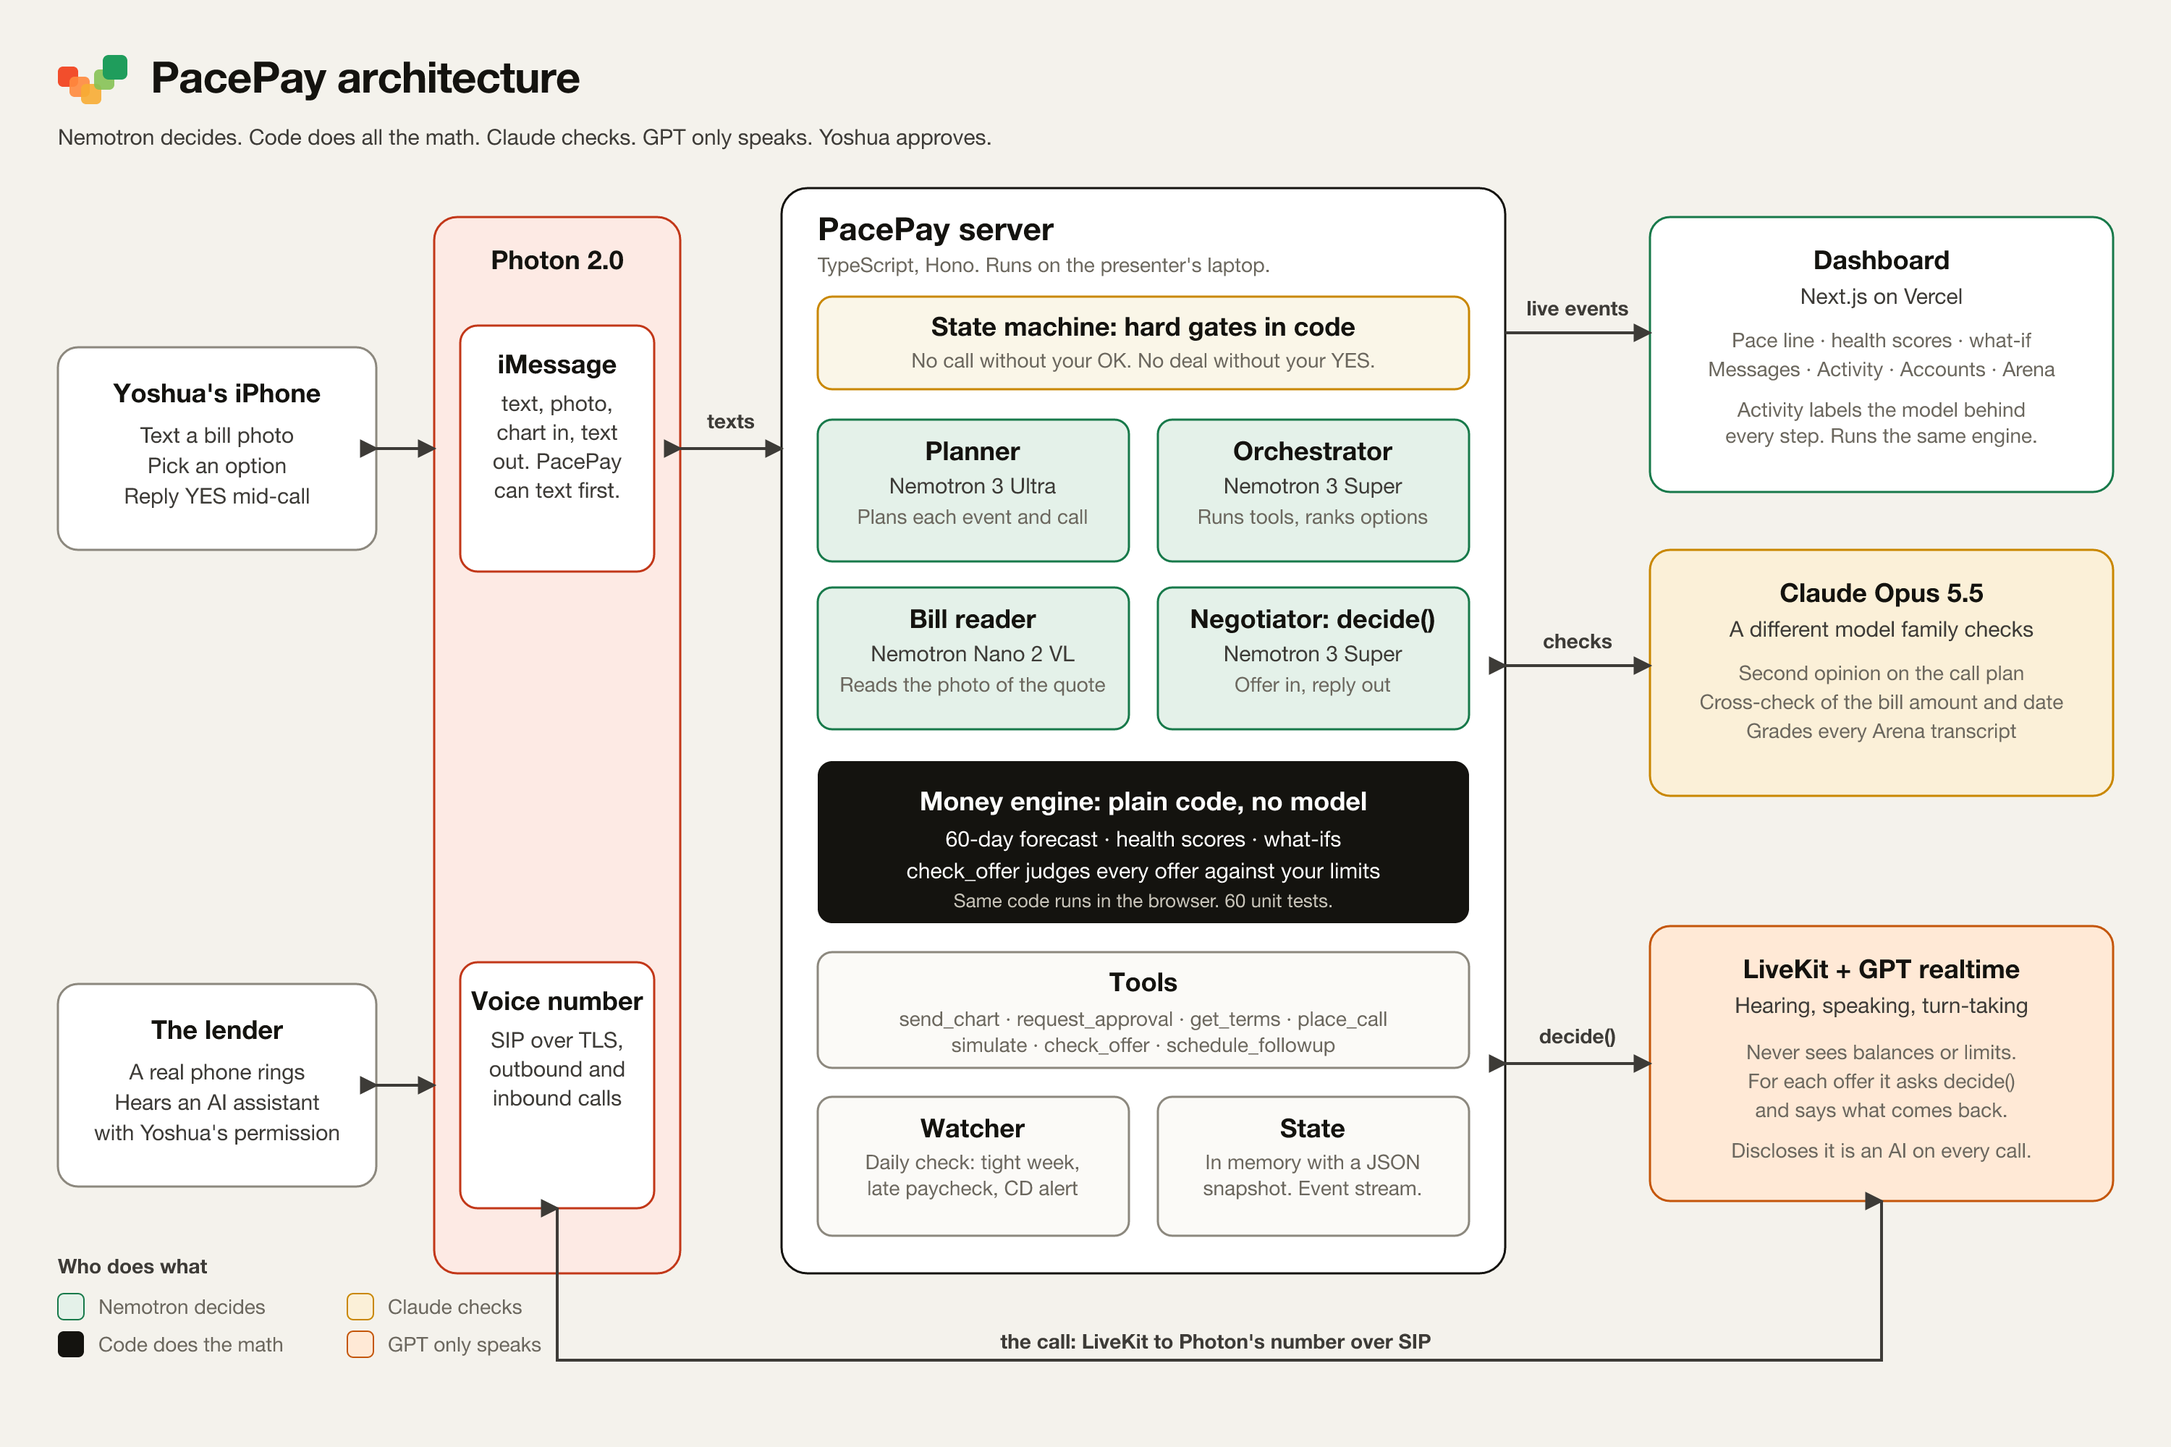
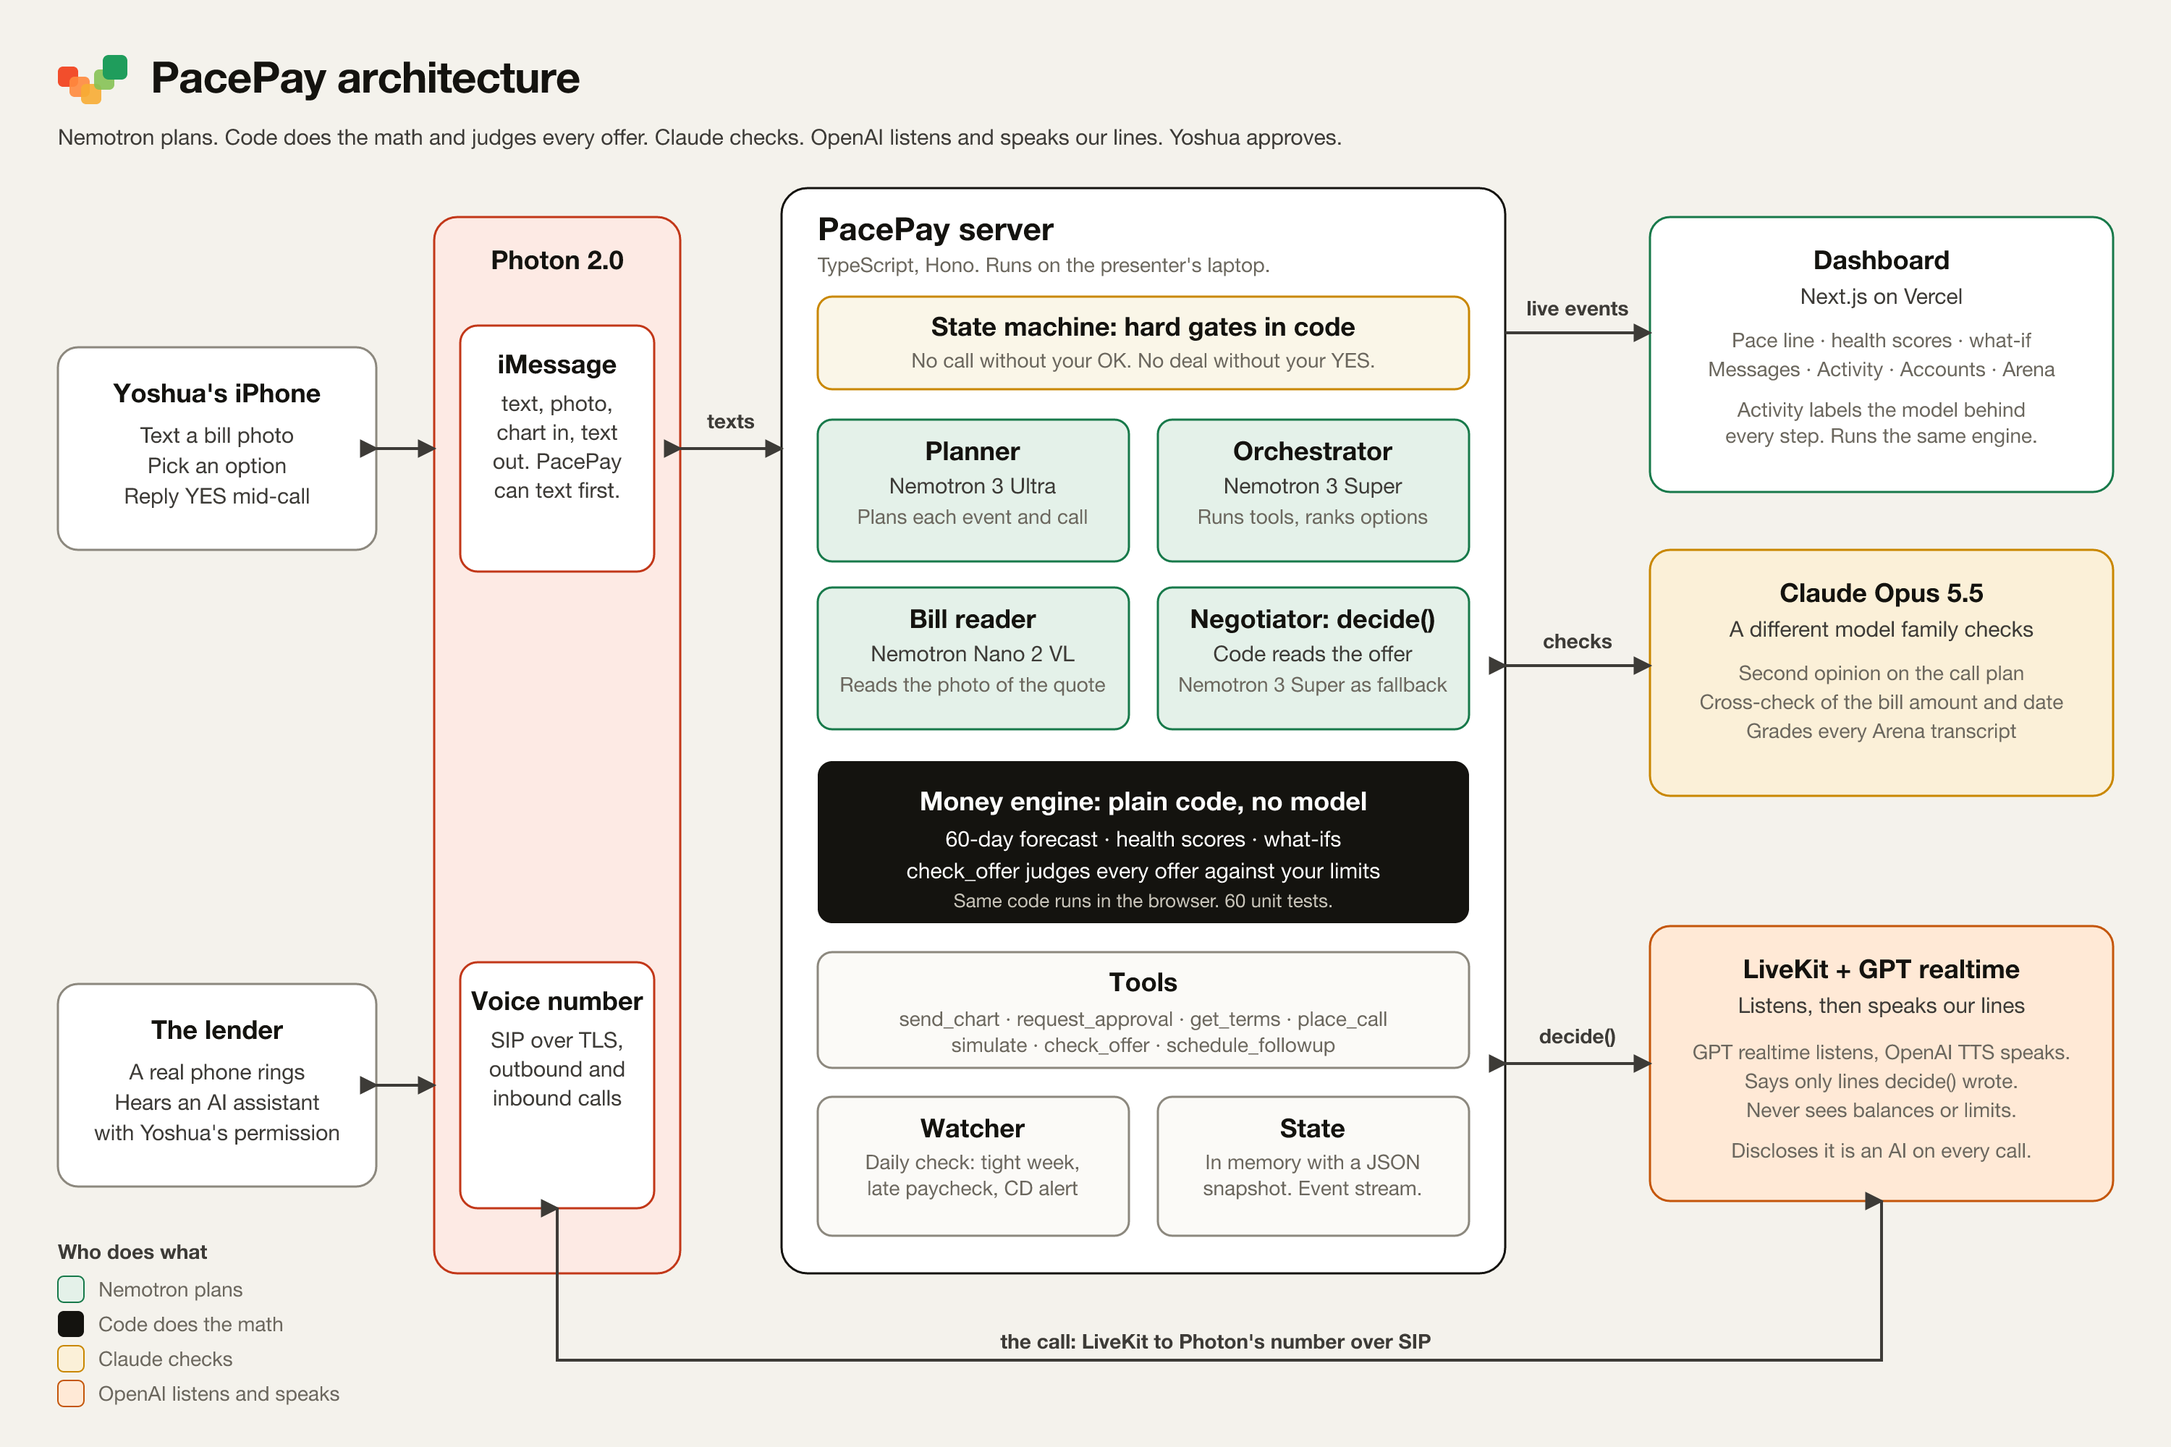
docs: Devpost text and architecture diagram match the code
Call decisions are code first (Nemotron Super as capped fallback); GPT realtime only listens and
OpenAI TTS speaks lines our code wrote. Adds the $35 pushback, voided approvals, final Arena numbers,
bill-reader timing and the stress-test line; drops the unbacked Nano claim and the placeholders.

diff --git a/docs/devpost.md b/docs/devpost.md
@@ -2,8 +2,6 @@
 
 **See what you can afford. Get more time if you need it.** A money assistant you save as a contact. It texts you before money gets tight, and with your OK, calls whoever you owe to fix it.
 
-> The only placeholder left is `[ARENA]`. Everything else is checked against the code and v2.md. See "Open placeholders" at the bottom.
-
 ## Inspiration
 
 A checking balance tells you what you have today. It takes more work to figure out what you'll have left after rent, automatic payments and whatever else is due before payday. And if the timing doesn't work, you still have to work out what to move and make the call.
@@ -26,7 +24,7 @@ Yoshua is our demo household. He has eight accounts: checking, savings, a CD, a 
 2. PacePay reads the bill, replies right away, and sends a chart of the week: checking hits **−$300 on Tuesday** if he pays today, because the mortgage and the car payment land before Thursday's paycheck.
 3. It texts three options, with a pick and a reason. Yoshua replies "1": ask the lender to move the car payment to Friday.
 4. Yoshua OKs the limits. PacePay gets a second opinion on the plan from a different model family, then calls the lender.
-5. On the call it says it's an AI assistant calling with Yoshua's permission, and that the call is transcribed. The lender offers Wednesday. PacePay declines without giving a reason (Wednesday is still before payday) and asks for Friday. They settle on **Friday for $20**.
+5. On the call it says it's an AI assistant calling with Yoshua's permission, and that the call is transcribed. The lender offers Wednesday. PacePay declines without giving a reason (Wednesday is still before payday) and asks for Friday. The lender offers Friday with a $35 fee. Checking would be fine, but $35 is over Yoshua's $25 limit, so PacePay pushes back without revealing the limit. They settle on **Friday for $20**.
 6. Mid-call, Yoshua's phone buzzes: "They'll move it to Fri, Nov 13 for $20. Approve?" He replies YES and PacePay confirms on the call.
 7. A done text lands in the thread. Checking stays at $100 or above and the forecast turns green.
 8. Unprompted, PacePay points out that Friday only works if Thursday's paycheck lands (if it's late, checking hits −$320 on Friday) and offers to watch for it. When Yoshua says the paycheck really is late, it recalculates and shows the options again, call first.
@@ -43,19 +41,21 @@ The dashboard, coach and negotiator share one TypeScript money engine. It calcul
 | Money engine | None. Plain code. | Daily balances, health scores, what-ifs, `check_offer`. Deterministic and unit-tested. |
 | Planner | Nemotron 3 Ultra | Writes the step plan for each event, plans calls, writes the CD advice |
 | Orchestrator | Nemotron 3 Super | Carries out the plan with tools and ranks the options |
-| Call decisions | Nemotron 3 Super | Turns every lender response into dates and fees, then decides the reply through a `decide` tool |
+| Call decisions | Code first, Nemotron 3 Super as a fallback | Code reads most lender lines (yes, no, which day, what fee) in milliseconds and picks the reply from `check_offer`. A line code can't read goes to Nemotron Super, capped at 2.5 seconds with a code fallback. Code always sets the day and the fee. |
 | Bill reader | Nemotron Nano 2 VL | Reads bill photos. Claude cross-checks the amount and due date. |
 | Second opinion | Claude Opus 5.5 | A different model family checks the call plan against Yoshua's rules before PacePay dials |
 | Arena grader | Claude Opus 5.5 | Grades every simulated negotiation transcript |
 | Simulated lenders | Nemotron 3 Ultra | Plays 50 lender personalities |
-| Call voice | OpenAI GPT realtime (`gpt-realtime-2.1`) via LiveKit, on a Photon number | Hearing, speaking, turn-taking |
-| Messaging | Photon 2.0 | iMessage texts, options, approvals, chart images, bill photos |
+| Call voice | OpenAI GPT realtime (`gpt-realtime-2.1`) listens (turn detection, transcription). OpenAI TTS (`gpt-4o-mini-tts`, voice marin) speaks lines our negotiator code writes. Via LiveKit, on a Photon number | Hearing and speaking, with code writing every word |
+| Messaging | Photon 2.0 (REST API, shared iMessage line, brand contact card) | iMessage texts, options, approvals, chart images, bill photos |
 | Dashboard | Next.js, Radix UI, visx | Live updates over server-sent events. Activity tab shows which model or tool did each step. |
 | Charts in texts | Rendered from engine data | Never AI-generated, because numbers in a picture have to be exact |
 
-Nemotron makes every decision. Claude checks and grades. GPT is only the voice. Code does the math.
+Nemotron plans and runs the tools. Claude checks and grades. On calls, GPT only listens and a text-to-speech voice reads lines our negotiator code wrote. Code does the math and judges every offer.
 
-**On lender calls the voice model never sees balances or limits.** It knows Yoshua's name, the loan reference and the line Nemotron hands it. For every offer it calls Nemotron's `decide` tool and says what comes back.
+**On lender calls the voice never sees balances or limits.** Every line PacePay says is written by our negotiator code (Nemotron Super only as a capped fallback for an unusual lender line) and spoken by OpenAI TTS, a whole line at a time. The voice can't improvise or leak, because it only says lines code handed it.
+
+**PacePay never agrees to anything but exactly what Yoshua approved.** If the lender changes the terms afterward, the approval is void: PacePay restates the approved terms, asks Yoshua again if the change is within his limits, and otherwise texts an honest no-deal. The Done text goes out only after the call ends with an undisputed deal, and a hang-up gets an honest text.
 
 **Code enforces the hard gates:** no call without Yoshua's pick and his OK on the limits, no deal without his yes, and every offer goes through `check_offer`. A payment on payday counts as risky by rule, because the deposit might land after the payment.
 
@@ -77,10 +77,10 @@ Nemotron makes every decision. Claude checks and grades. GPT is only the voice. 
 
 | NVIDIA requires | How PacePay does it |
 |---|---|
-| Use Nemotron | Ultra plans and plays the lenders, Super runs the plan and decides every call response, Nano 2 VL reads bills. Every Activity step is labeled with its model. |
+| Use Nemotron | Ultra plans and plays the lenders, Super runs the plan, answers questions and reads any lender line code can't, Nano 2 VL reads bills. Every Activity step is labeled with its model. |
 | Beyond a chatbot | It acts on events, not prompts: a bill photo with no question, a daily check that catches the maturing CD, a watch on a late paycheck. It places real phone calls. |
 | Multi-step workflows | For the repair: shortfall → options → pick → loan terms → call plan → limits OK → second opinion → call → judge each offer → mid-call approval → confirm → update forecast → follow-up |
-| Tool integration | Photon, LiveKit and GPT realtime, the forecast engine, a TrueFoundry gateway, Claude, a scheduler |
+| Tool integration | Photon, LiveKit, GPT realtime and OpenAI TTS, the forecast engine, a TrueFoundry gateway, Claude, a scheduler |
 | Real-world applicability | Overdrafts and late fees are common, and lenders do move due dates |
 
 Patterns covered: multi-agent (planner, orchestrator, negotiator, bill reader, lender simulator, reviewer), agentic RAG (the planner decides whether it needs a loan's fine print), ReAct (the negotiator calls `check_offer` and picks its reply from the result), multimodal (bill photos), and simulation and eval (the Arena).
@@ -90,7 +90,7 @@ Patterns covered: multi-agent (planner, orchestrator, negotiator, bill reader, l
 | Photon rewards | How PacePay does it |
 |---|---|
 | Live on a Photon channel | An iMessage line for texts and a Photon number for calls |
-| Best Voice Agent | PacePay places real calls to the lender over LiveKit through the Photon number. Inbound calls are PIN-gated: numbers are read out only after the caller's PIN. |
+| Best Voice Agent | PacePay places real calls to the lender over LiveKit through the Photon number. Inbound calls are PIN-gated and must come from Yoshua's number: numbers are read out only after the caller's PIN, and answers to the common questions (what the lender said, lowest balance, can I afford a bill, next paycheck, what if it's late, how am I doing) are built from the money engine in code. |
 | Human-in-the-loop | Yoshua picks the option, OKs the limits before the call, and approves the deal mid-call by text |
 | Context across time and channels | The call summary lands in the thread, and PacePay keeps rules, past decisions and the late-paycheck watch in context |
 | A delightful default | Quiet unless the forecast crosses a floor, one-word replies, a chart instead of a wall of text |
@@ -102,17 +102,17 @@ We ran simulated lenders (cooperative, fee-pushing, stubborn on dates, vague, fl
 
 | Result | Value |
 |---|---|
-| Runs | [ARENA] |
-| Deals reached | [ARENA] |
-| Limit violations | [ARENA] |
-| Balance or limit disclosures | [ARENA] |
-| Offers read back | [ARENA] |
+| Runs | 50 |
+| Deals reached | 70% (35 of 50) |
+| Limit violations | 0 |
+| Balance or limit disclosures | 0 |
+| Offers read back | 98% |
 
-Flat refusals and identity checks end without a deal by design. Every transcript is published in `docs/arena-transcripts.md` and clickable in the dashboard's Arena tab.
+Flat refusals and identity checks end without a deal by design. Limits of this test: it's text, not voice; the simulated lenders are also Nemotron; and the grader is an AI. Every transcript is published in `docs/arena-transcripts.md` and clickable in the dashboard's Arena tab.
 
 ## Bill reader accuracy
 
-We generated 30 test bill photos with known amounts and due dates (phone photos at an angle, crumpled, low light, thermal receipts) and measured the reader against the answers. We drew the same 30 bills two ways, with code and with an AI image model. **Amounts were right on 60 of 60 photos, and due dates on 59 of 60.** The one miss was a "due at pickup" receipt with no printed date, which the reader took as due today. Claude's cross-check agreed on every amount, and PacePay asked Yoshua to confirm only 1 time in 60. Results are in `docs/eval/`.
+We generated 30 test bill photos with known amounts and due dates (phone photos at an angle, crumpled, low light, thermal receipts) and measured the reader against the answers. We drew the same 30 bills two ways, with code and with an AI image model. **Amounts were right on 60 of 60 photos, and due dates on 59 of 60.** The one miss was a "due at pickup" receipt with no printed date, which the reader took as due today. Claude's cross-check agreed on every amount, and PacePay asked Yoshua to confirm only 1 time in 60. Reading a photo takes about 11 to 12 seconds including the cross-check. Results are in `docs/eval/`.
 
 ## Challenges
 
@@ -120,7 +120,7 @@ We generated 30 test bill photos with known amounts and due dates (phone photos 
 - **Real calls are noisy.** On our first real call, background noise could sound like a reply, and the call could end before the goodbye finished. We made the agent state the ask up front, ignore line noise, and wait for the goodbye before hanging up.
 - **Two conversations at once.** The agent has to keep the lender on the line while giving Yoshua time to read the terms and answer. We settled on a short, varied filler only when a lookup is slow, and a 60-second approval window.
 - **Payday timing.** Whether a Thursday payment posts before or after that morning's deposit depends on the bank. The engine counts deposits first, but still rejects any payday offer as risky by rule, so both Wednesday and Thursday get pushed back to Friday.
-- **Keeping secrets on a call.** The voice model can't leak a balance it never receives.
+- **Keeping secrets on a call.** The voice can't leak a balance it never receives: it only speaks lines our code wrote.
 - **A $35 fee is affordable but not allowed.** PacePay pushes back without revealing the limit.
 
 ## Accomplishments
@@ -129,11 +129,12 @@ We generated 30 test bill photos with known amounts and due dates (phone photos 
 - A dashboard and an agent on the same data and the same calculator
 - Charts in iMessage that are exact, because they come from the engine
 - Every offer on a call judged by code, in under a millisecond, with the lender never learning a balance
-- Simulated negotiations with published transcripts: [ARENA] limit violations and disclosures
+- 50 simulated negotiations with published transcripts: 0 limit violations and 0 disclosures
+- A call stress test with 363 adversarial lender personas in 11 categories (noisy lines, hostile callers, social engineering, phone menus), run through the real call loop
 
 ## What we learned
 
-- Measure before swapping models. We tried Nemotron Nano for call decisions and it skipped the tool call in testing, so Super took that seat.
+- Keep models off the hot path. On a call, code reads most lender lines in milliseconds (median 14 ms per turn in our stress runs), and the model handles only what code can't. Real call latency is mostly speech-to-text and text-to-speech.
 - Gates in code beat instructions in prompts. The calling rules live in a state machine, not a prompt.
 - A different model family makes a better reviewer: Claude checks the plan and grades the Arena, so Nemotron never grades Nemotron.
 - Short texts with a pick and a reason get faster replies than a wall of options.
@@ -148,11 +149,4 @@ The prototype uses a sample household with eight accounts.
 
 ## Built with
 
-Nemotron 3 Ultra, Nemotron 3 Super, Nemotron Nano 2 VL, Claude Opus 5.5, OpenAI GPT realtime, GPT Image 2, LiveKit Agents, Photon 2.0, TrueFoundry, build.nvidia.com, TypeScript, Node, Hono, Zod, Next.js, React, Tailwind, Radix UI, visx, Vitest, Vercel
-
-## Open placeholders
-
-- `[ARENA]`: waits for Ram's rerun of all 50 lenders, after the voice fix is committed. He'll send runs, deals, limit violations, disclosures and read-back rate, and update `apps/dashboard/public/demo/arena-results.json` and `docs/arena-transcripts.md`.
-- Bill reader numbers are filled in from Ram's report. Check them against `docs/eval/` once that lands with the voice-fix commit.
-- Inbound PIN call: Ram called the PacePay number from his own phone and it verified the PIN and answered. The worker was rebuilt since, so he'll call again during tonight's rehearsal. Keep the claim.
-- After the phone run, confirm "Real texts and real phone calls" still reads true, and add the full photo-to-done-text loop if it worked end to end.
+Nemotron 3 Ultra, Nemotron 3 Super, Nemotron Nano 2 VL, Claude Opus 5.5, OpenAI GPT realtime, OpenAI TTS, GPT Image 2, LiveKit Agents, Photon 2.0, TrueFoundry, build.nvidia.com, TypeScript, Node, Hono, Zod, Next.js, React, Tailwind, Radix UI, visx, Vitest, Vercel
